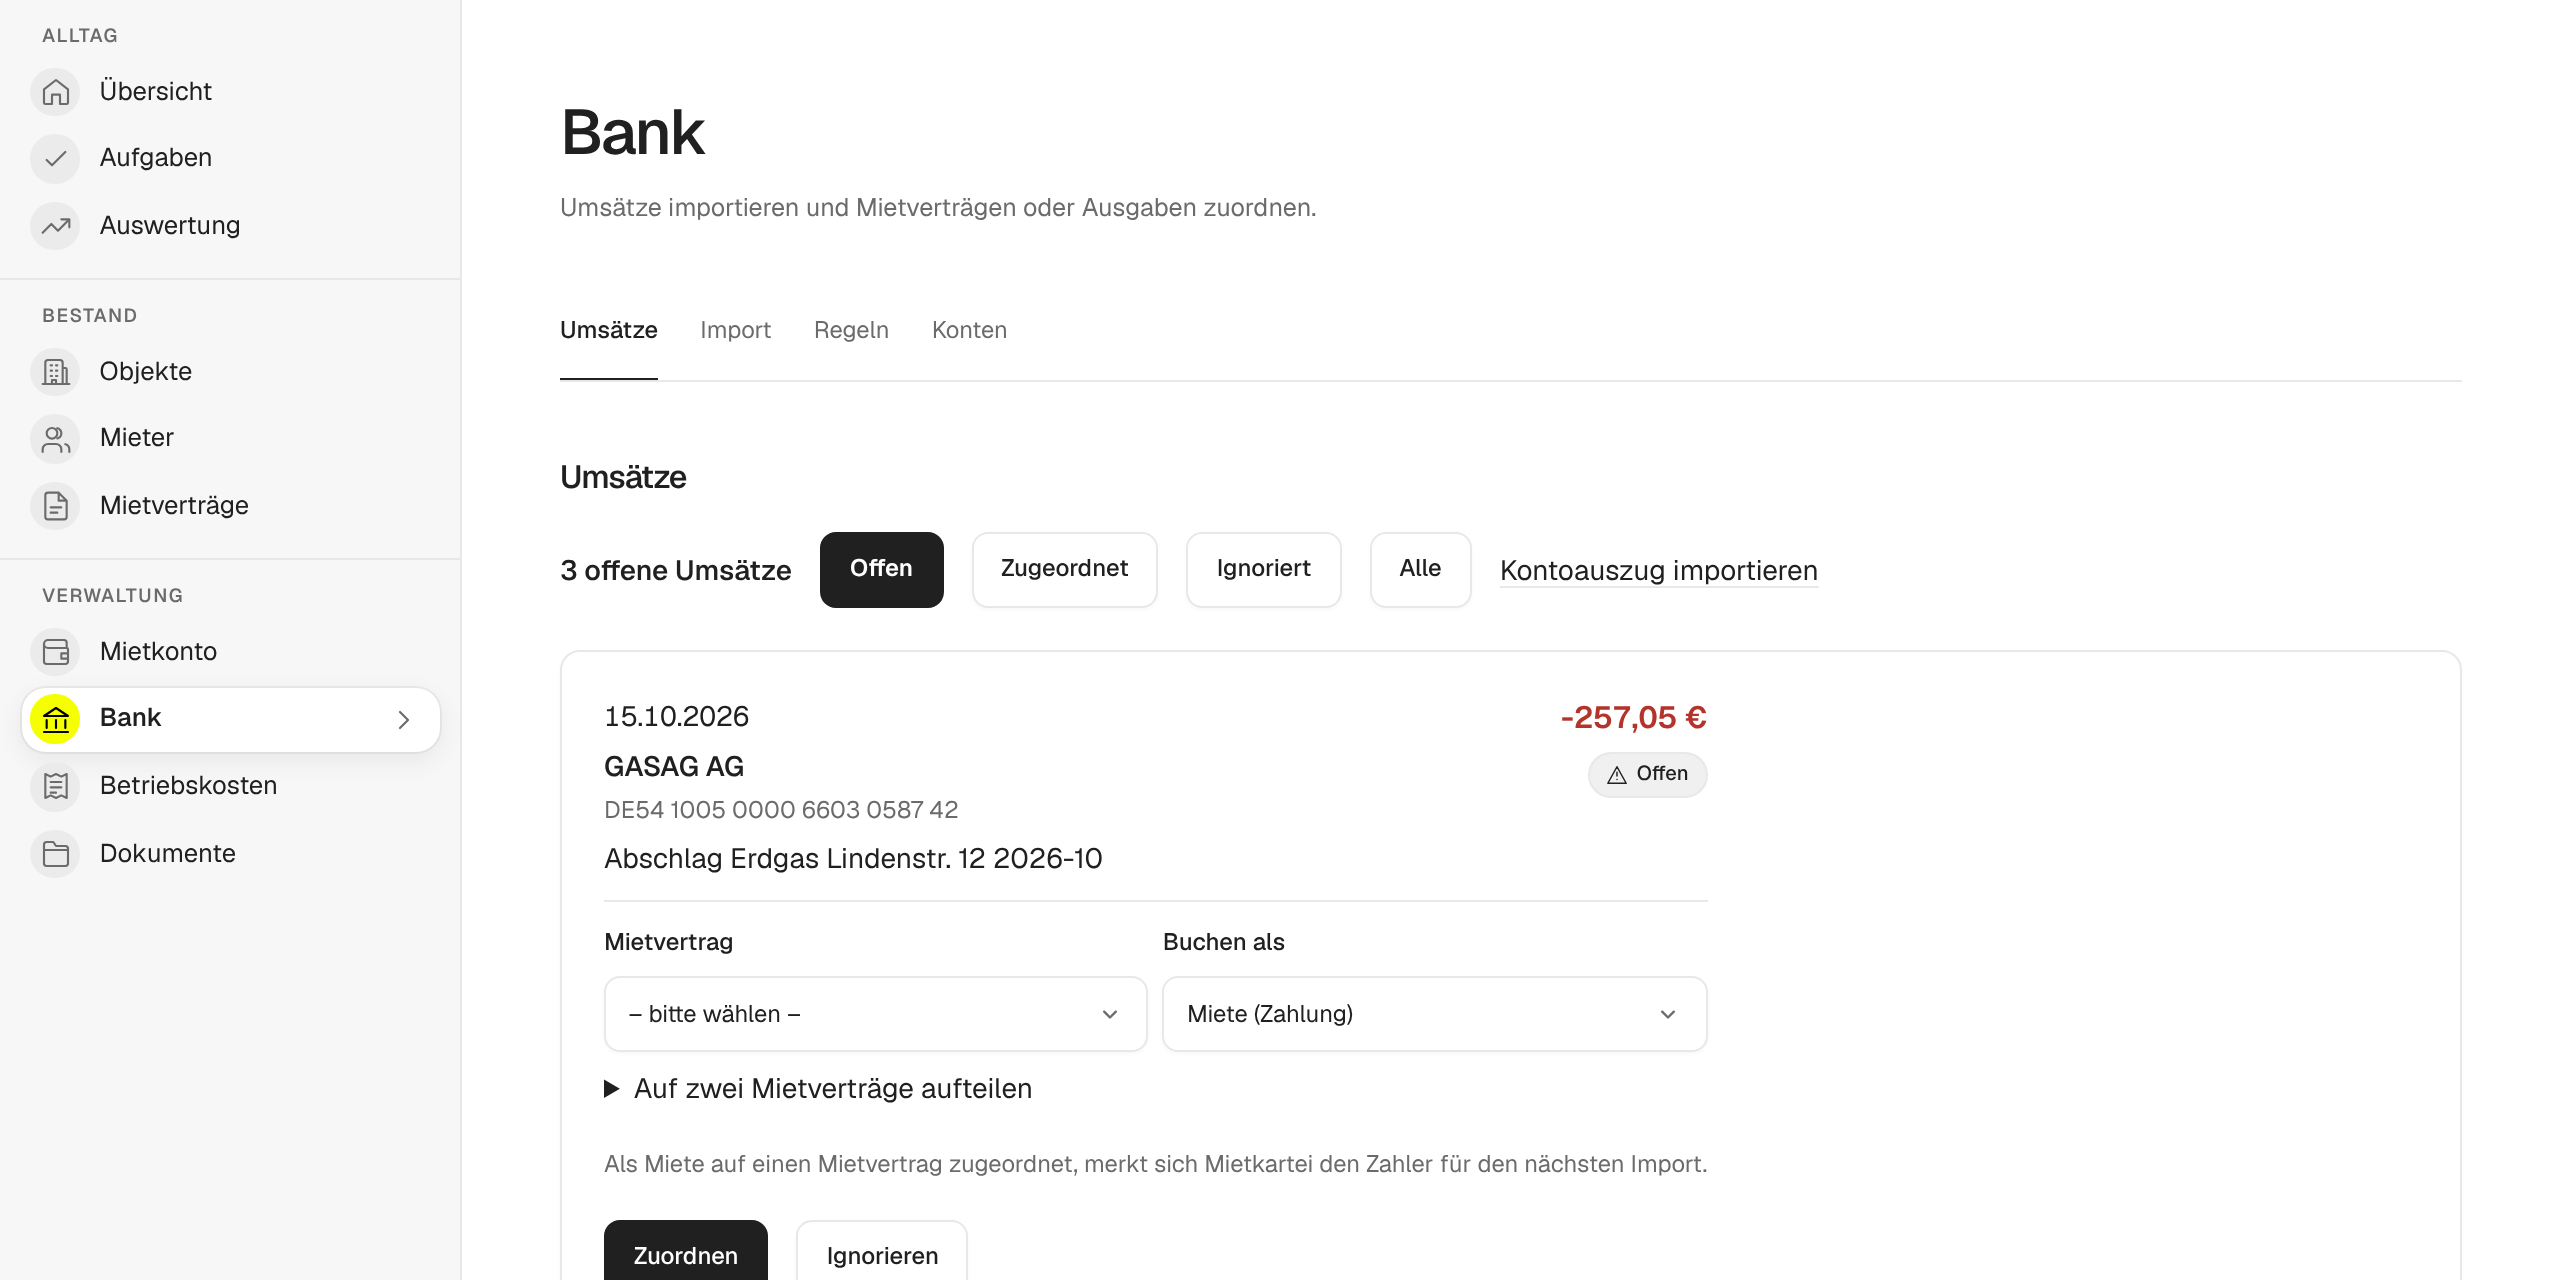
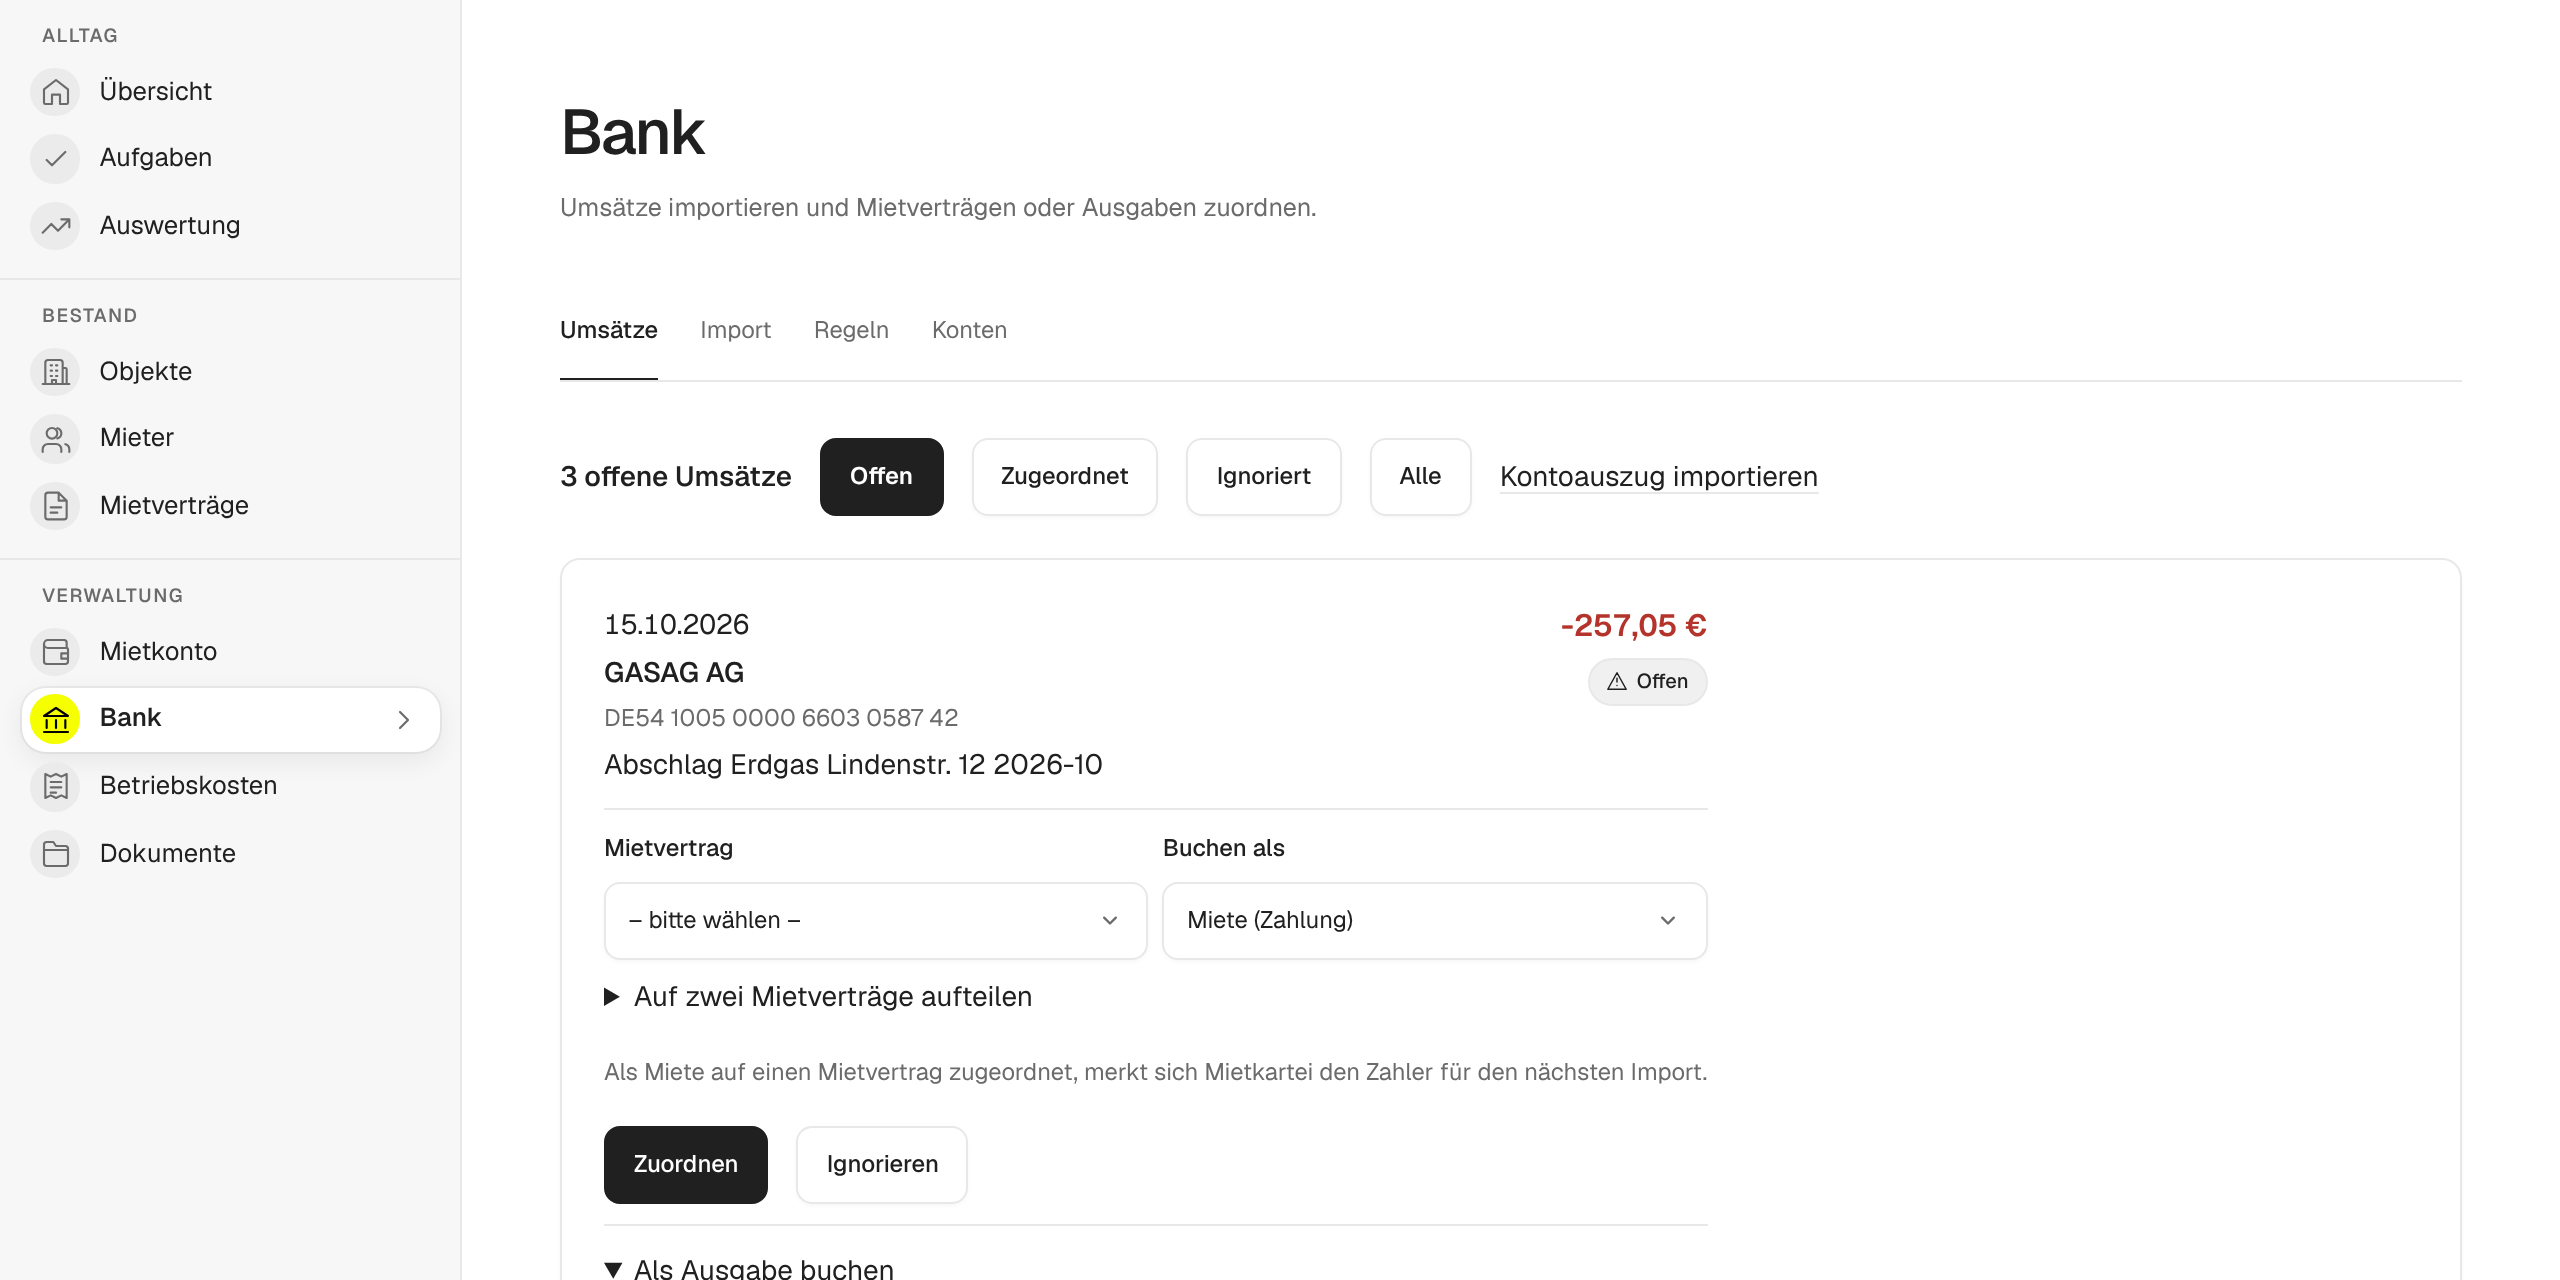
Retake the app screenshots after the new balances, rows and demo data
The Mietkonto shots show the leases in arrears, the open October rents
among them, in a 1440 px window: at 1280 px the new row actions push the
table into a horizontal scroll. The other README, guide and homepage
screenshots follow the signed balances, the status dots and the longer
demo history.

diff --git a/app/scripts/screenshots.js b/app/scripts/screenshots.js
@@ -88,9 +88,10 @@ try {
 	 * @param {string} name @param {string} url
 	 * @param {string[]} [around] selectors of the elements a detail shows; none for the whole screen
 	 * @param {(page: import('@playwright/test').Page) => Promise<void>} [prepare]
+	 * @param {number} [screen] the window width of a whole screen
 	 */
-	async function shootSlide(name, url, around = [], prepare = async () => {}) {
-		let region = { x: 0, y: 0, width: 1280, height: 800 };
+	async function shootSlide(name, url, around = [], prepare = async () => {}, screen = 1280) {
+		let region = { x: 0, y: 0, width: screen, height: (screen * 5) / 8 };
 		if (around.length) {
 			await page.goto(url);
 			await prepare(page);
@@ -123,6 +124,9 @@ try {
 		}
 		const slideContext = await browser.newContext({
 			...contextOptions,
+			viewport: around.length
+				? contextOptions.viewport
+				: { width: region.width, height: region.height },
 			deviceScaleFactor: slideWidth / region.width,
 			storageState: await context.storageState()
 		});
@@ -209,26 +213,17 @@ try {
 	await shoot('umlageschluessel', '/betriebskosten/schluessel', docsOutput);
 	await shoot('datenuebernahme', '/einstellungen/datenuebernahme', docsOutput);
 
-	// The open rent payments of October go to their leases, so the rent ledger shows the two
-	// leases really in arrears rather than every one.
-	for (const [payer, lastName] of [
-		['Anna Schmidt', 'Schmidt'],
-		['Murat Yilmaz', 'Yılmaz']
-	]) {
-		await page.goto('/bank');
-		const card = page.getByRole('listitem').filter({ hasText: payer });
-		const lease = card.locator('select[name="leaseId"]');
-		const option = await lease
-			.locator('option')
-			.filter({ hasText: lastName })
-			.first()
-			.getAttribute('value');
-		await lease.selectOption(option ?? '');
-		await card.getByRole('button', { name: 'Zuordnen', exact: true }).click();
-		await card.waitFor({ state: 'detached' });
-	}
-	await shoot('mietkonto', '/mietkonto');
-	await shootSlide('mietkonto', '/mietkonto');
+	// The leases in arrears, the October rent among them, whose payments still wait in the bank
+	// transactions. The wider window keeps the row actions beside the reminders.
+	await page.setViewportSize({ width: 1440, height: 900 });
+	await page.goto('/mietkonto?filter=rueckstaende');
+	await page.screenshot({
+		path: path.join(output, 'mietkonto.png'),
+		clip: { x: 0, y: 0, width: 1440, height: 720 }
+	});
+	console.log('assets/screenshots/mietkonto.png');
+	await page.setViewportSize({ width: 1280, height: 800 });
+	await shootSlide('mietkonto', '/mietkonto?filter=rueckstaende', [], undefined, 1440);
 
 	await page.goto('/betriebskosten');
 	await page.getByRole('button', { name: 'Entwurf erstellen' }).click();

diff --git a/app/README.md b/app/README.md
@@ -77,7 +77,7 @@ Der Testserver startet mit `E2E=true`. Damit ist der Endpunkt `/api/e2e/seed` ak
 
 ## Bildschirmfotos der README
 
-`npm run build && npm run screenshots` erneuert die Bildschirmfotos in `assets/screenshots/`. Das Skript startet den Produktions-Build mit einer leeren Datenbank auf Port 4180, legt ein Konto mit den Demodaten an und fotografiert Übersicht, Mietkonto und den Anteil eines Mieters in der Betriebskostenabrechnung. Erneuere sie, wenn sich diese Seiten sichtbar ändern.
+`npm run build && npm run screenshots` erneuert die Bildschirmfotos der README (`assets/screenshots/`), der Startseite (`website/assets/screenshots/`) und der Anleitungen (`docs/assets/screenshots/`). Das Skript startet den Produktions-Build mit einer leeren Datenbank auf Port 4180, legt ein Konto mit den Demodaten an und fotografiert unter anderem Auswertung, Mietkonto, Bankumsätze und den Anteil eines Mieters in der Betriebskostenabrechnung. Erneuere sie, wenn sich diese Seiten sichtbar ändern.
 
 `npm run social-images` erzeugt danach die Vorschaubilder für geteilte Links neu: `website/assets/social.png` (1200×630, für Startseite, Ratgeber, Dokumentation und App) und `assets/social-preview.png` (1280×640, das Vorschaubild des Repositorys, das unter _Settings → General → Social preview_ von Hand hochgeladen wird). Erhöhe nach einer sichtbaren Änderung den Parameter `?v=` an der Bildadresse in den Meta-Tags, damit Messenger und soziale Netzwerke das neue Bild laden.
 
